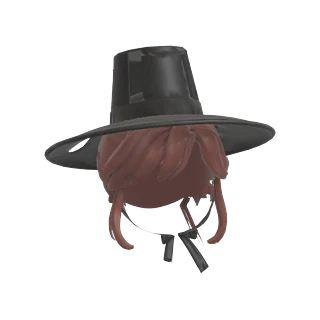
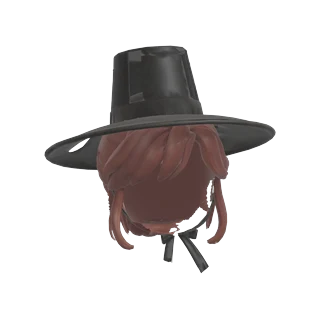
fix(art): 갓을 쓴 여자 뒤머리를 매끈한 머리와 낮은 쪽으로 (#341)
- 뒤통수에 눕힌 포니테일이 구겨진 조각처럼 지저분해 보였음
- no_ponytail.py back=: 투구용 쪽머리(i)의 뒤쪽을 밑에 깔고 기본 머리색으로 다시 칠함
- 옷 파일 캐시 번호 rig=20

Changed region(s): [[0.3125, 0.5625, 0.6875, 0.75]]

diff --git a/frontend/src/world/art/outfitSources.ts b/frontend/src/world/art/outfitSources.ts
@@ -3,7 +3,7 @@ import type { GLTF } from 'three/addons/loaders/GLTFLoader.js'
 import { ParkAssetLoader } from './assetLoader'
 
 /** Outfit files are fetched when someone first wears one, not with the park: most visitors never need them. */
-export const outfitUrl = (name: string) => `/art/characters/outfits/${name}.glb?rig=19`
+export const outfitUrl = (name: string) => `/art/characters/outfits/${name}.glb?rig=20`
 
 const loaded = new Map<string, GLTF>()
 const requested = new Set<string>()

diff --git a/tools/character/no_ponytail.py b/tools/character/no_ponytail.py
@@ -1,4 +1,4 @@
-"""The girl's default hair e without its ponytail, as a new hair item: -- <shared.glb> <out.glb> [new=j] [dist=0.035] [ymin=0.0] [squash=k] [cap=1]
+"""The girl's default hair e without its ponytail, as a new hair item: -- <shared.glb> <out.glb> [new=j] [dist=0.035] [ymin=0.0] [squash=k] [cap=1] [back=i back_y=0.0]
 Hair faces behind ymin (the back half) whose middle lies farther than dist from the body's surface are the ponytail and
 its scrunchie; they go. The copy becomes item__HAIR__<new> (weights and texture kept)."""
 import bpy, bmesh, sys, os, re
@@ -136,6 +136,41 @@ if opt.get('cap', '0') == '1' and hairs:
     for x in bpy.data.objects: x.select_set(x in caps or x is c)
     bpy.context.view_layer.objects.active = c; bpy.ops.object.join()
     print('CAP', sum(1 for _ in caps), 'body pieces under the hair joined; hair now', len(c.data.polygons), 'faces')
+# back=i: the back of another hair item (the Tripo bun hair i: smooth hair down to the nape and a low bun) under this
+# one, recoloured to this hair's colours (mean and spread per channel), so the head is not bare behind and looks like
+# real hair. The ponytail laid down over it (squash) looked messy (user). Its faces before back_y and on the ears go.
+if opt.get('back') and hairs:
+    import numpy as np
+    c = hairs[0]
+    src_ = [o for o in bpy.data.objects if o.type == 'MESH' and base(o) == f"item__HAIR__{opt['back']}"]
+    def texels(o):
+        img = next(n.image for m in o.data.materials for n in m.node_tree.nodes if n.type == 'TEX_IMAGE' and n.image)
+        w_, h_ = img.size; P = np.array(img.pixels[:], np.float32).reshape(h_, w_, -1)
+        uvd = o.data.uv_layers.active.data; T = []
+        for p in list(o.data.polygons)[::5]:
+            u = uvd[p.loop_indices[0]].uv
+            T.append(P[min(h_ - 1, int(u.y * h_)), min(w_ - 1, int(u.x * w_)), :3])
+        return img, P, np.array(T)
+    _, _, Te = texels(c)
+    BY = float(opt.get('back_y', 0.0)); joined = []
+    for s_ in src_:
+        k = s_.copy(); k.data = s_.data.copy(); bpy.context.scene.collection.objects.link(k)
+        kmw = k.matrix_world; b = bmesh.new(); b.from_mesh(k.data)
+        bmesh.ops.delete(b, geom=[f for f in b.faces if (kmw @ f.calc_center_median()).y < BY or ear(kmw @ f.calc_center_median())], context='FACES')
+        b.to_mesh(k.data); b.free()
+        img, P, Ti = texels(k)
+        mi, si, me_, se = Ti.mean(0), Ti.std(0) + 1e-4, Te.mean(0), Te.std(0)
+        Q = P.copy(); Q[..., :3] = np.clip((P[..., :3] - mi) / si * se + me_, 0, 1)
+        new = bpy.data.images.new(f"{img.name}_as_{base(c)}", img.size[0], img.size[1], alpha=True)
+        new.pixels[:] = Q.ravel(); new.pack()
+        for i_, m in enumerate(k.data.materials):
+            m2 = m.copy(); k.data.materials[i_] = m2
+            for nd in m2.node_tree.nodes:
+                if nd.type == 'TEX_IMAGE' and nd.image: nd.image = new
+        joined.append(k)
+        print('BACK', s_.name, len(k.data.polygons), 'faces, colour', mi.round(2).tolist(), '->', me_.round(2).tolist())
+    for x in bpy.data.objects: x.select_set(x in joined or x is c)
+    bpy.context.view_layer.objects.active = c; bpy.ops.object.join()
 if ad:
     for t in ad.nla_tracks: t.mute = False
     ad.action = active

diff --git a/docs/character-outfits.md b/docs/character-outfits.md
@@ -152,13 +152,13 @@
 ```
 
 - `j`는 `no_ponytail.py`가 만든다. 뒤쪽 절반(y > 0)에서 몸 표면과 3.5 cm 넘게 떨어진 면이 포니테일과 머리끈이다.
-  - 처음에는 이 면을 지웠는데, 뒤통수 아래가 비어 빡빡이처럼 보였다(user). 그래서 지우지 않고 뒤통수 위에 눕힌다(`squash=0.15`).
-  - 눕히는 방법: 각 점을 가장 가까운 두피 위 6 mm로 옮기고, 원래 떨어져 있던 거리의 15%만큼 더 띄워 겹 순서를 지킨다. 옆으로 1.2배 펴서(`squash_x=1.2`) 뒤통수를 넓게 덮는다. 목(높이 0.62) 아래로 내려간 면은 뺀다.
+  - 이 면을 지우면 뒤통수 아래가 비어 빡빡이처럼 보였다(user). 포니테일을 뒤통수에 눕혀 덮는 방법(`squash=`)도 해 봤지만, 구겨진 조각처럼 지저분했다(user).
+  - 그래서 `back=i`로 투구용 쪽머리 `i`의 뒤쪽(y > −0.04: 목덜미까지 매끈한 머리와 낮은 쪽)을 가져와 밑에 깐다. 텍스처는 `j`의 머리색(채널별 평균·퍼짐)에 맞춰 다시 칠한다. 앞쪽 가닥에 가려 경계가 보이지 않는다.
   - 귀(|x| > 0.158, y −0.01~0.065, 높이 0.79 아래)에는 아무것도 얹지 않는다. 처음에는 귀가 갈색으로 덮였다.
 - `cap=1`: 자르면서 옆 가닥 사이가 벌어져 머리 옆이 구멍 난 것처럼 비어 보였다(user). 머리 밑 두피(이마 쪽 `cap_y=-0.05`보다 뒤, 높이 `cap_z=0.7` 위) 위 2.5 mm에 머리색 한 가지의 밑층을 깔아, 틈으로 머리색 그늘이 보이게 한다. 이마는 빼서 앞머리 사이가 갈색으로 막히지 않게 한다.
 
 ```bash
-"$B" -b --python tools/character/no_ponytail.py -- shared_layers_hi.glb shared_layers_hij.glb new=j dist=0.035 ymin=0.0 squash=0.15 squash_x=1.2 cap=1 cap_nape=0.7
+"$B" -b --python tools/character/no_ponytail.py -- shared_layers_hi.glb shared_layers_hij.glb new=j dist=0.035 ymin=0.0 cap=1 back=i back_y=-0.04
 ```
 
 - `i`와 `j`는 모자 아래 머리의 원본일 뿐이라 아이템으로 팔지 않는다(옷 파일에도 넣지 않는다).
